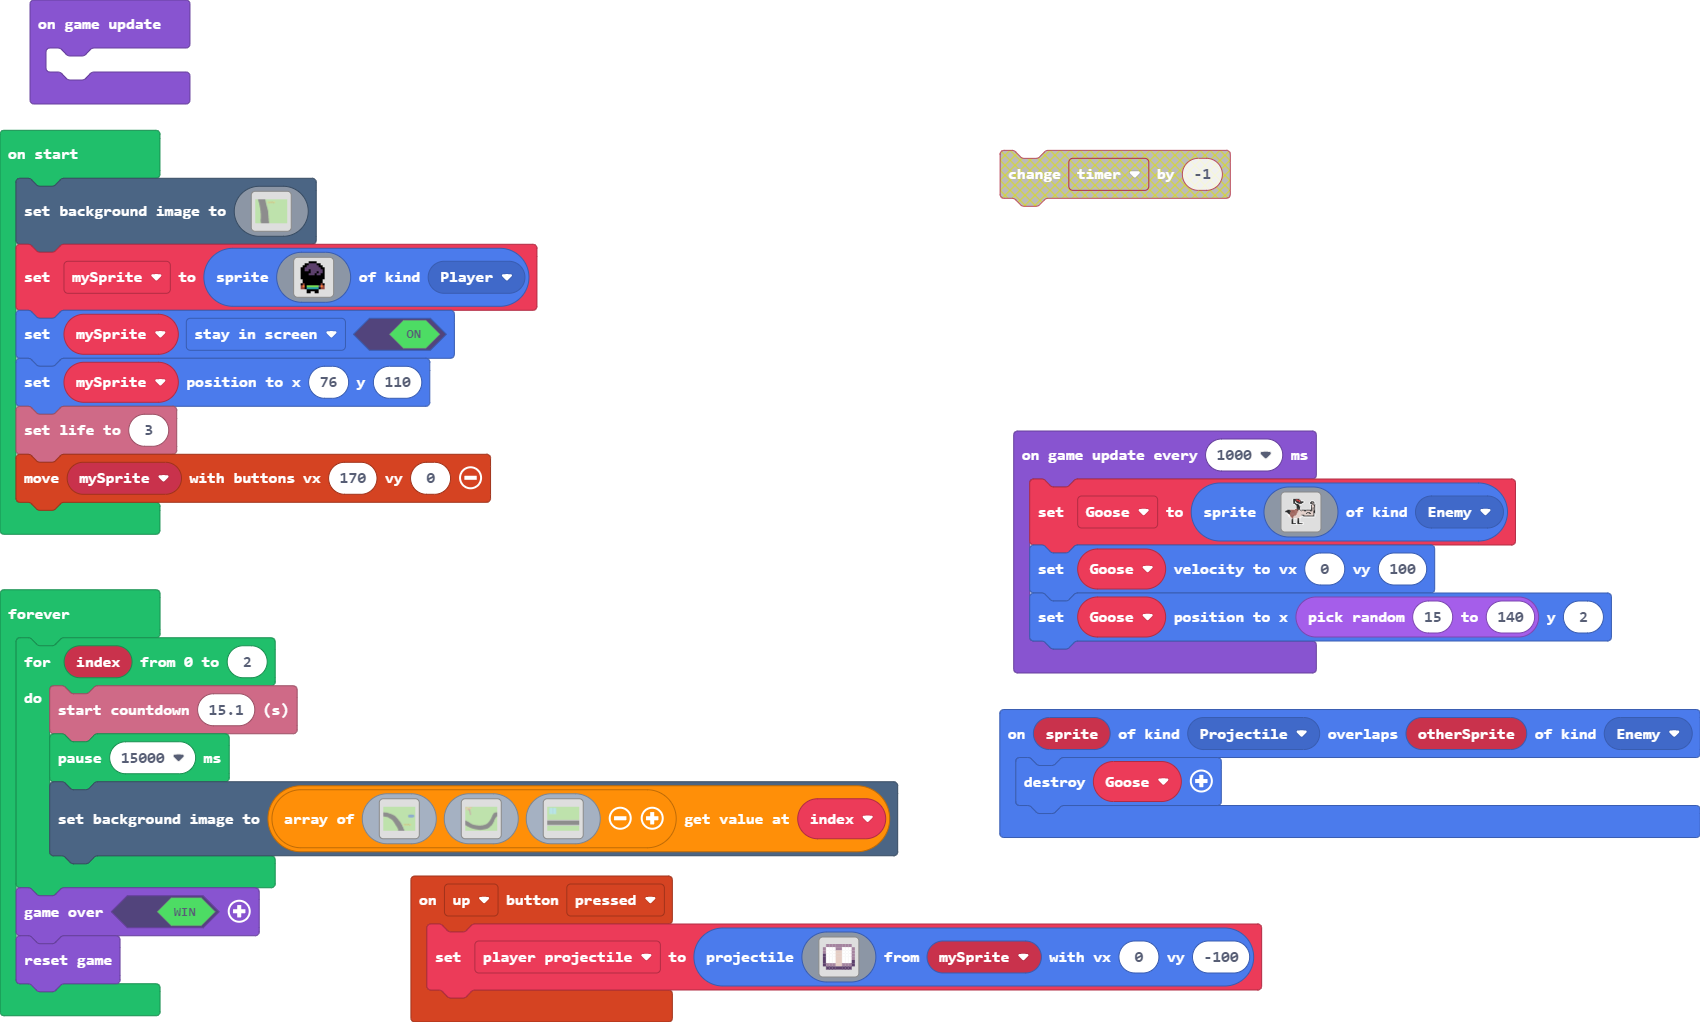
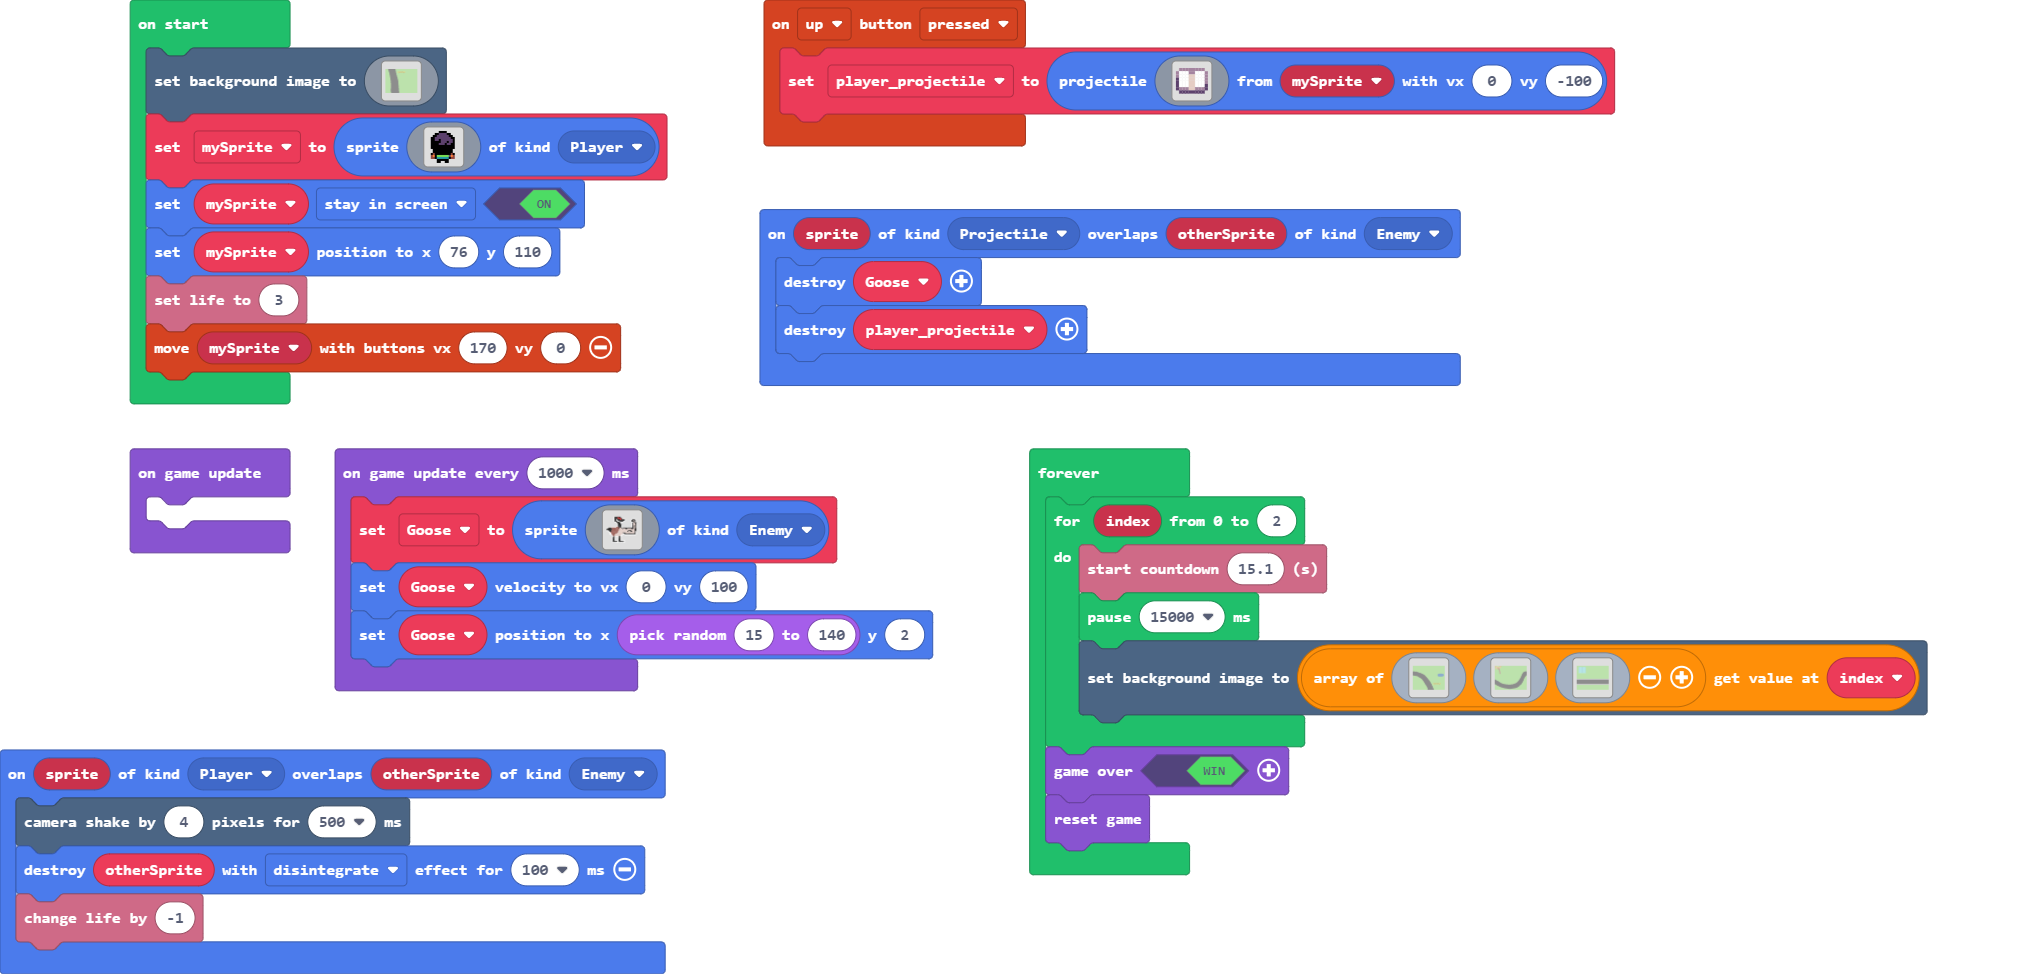
Update main.blocks, main.ts

diff --git a/main.ts b/main.ts
@@ -12,6 +12,12 @@ controller.up.onEvent(ControllerButtonEvent.Pressed, function () {
 })
 sprites.onOverlap(SpriteKind.Projectile, SpriteKind.Enemy, function (sprite, otherSprite) {
     Goose.destroy()
+    player_projectile.destroy()
+})
+sprites.onOverlap(SpriteKind.Player, SpriteKind.Enemy, function (sprite, otherSprite) {
+    scene.cameraShake(4, 500)
+    otherSprite.destroy(effects.disintegrate, 100)
+    info.changeLifeBy(-1)
 })
 let Goose: Sprite = null
 let player_projectile: Sprite = null
